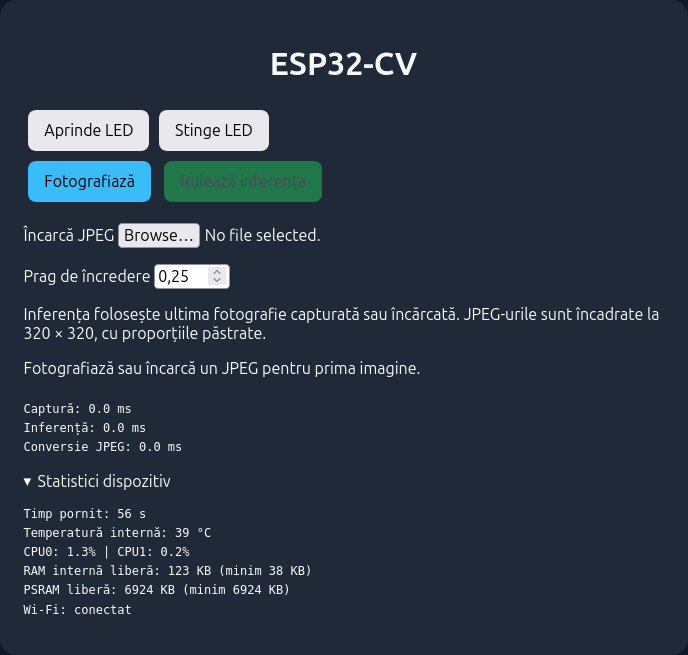
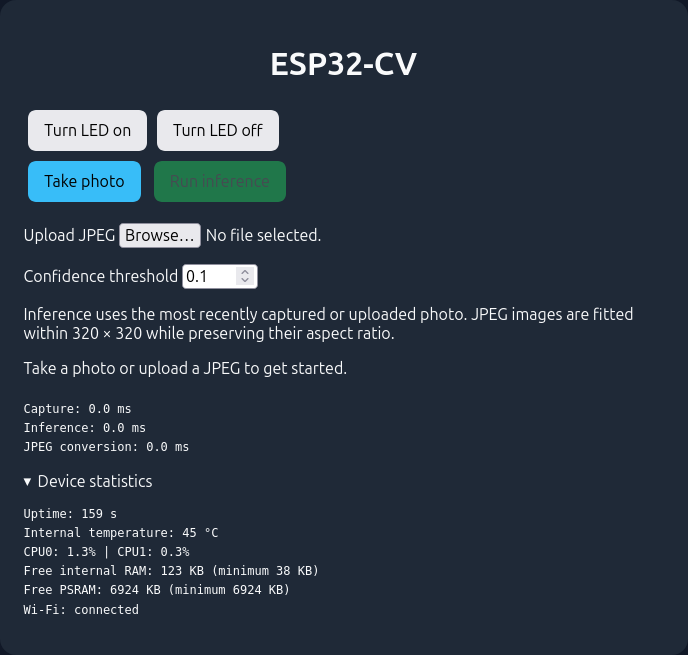
change index.html to en

diff --git a/src/index.html b/src/index.html
@@ -1,5 +1,5 @@
 <!doctype html>
-<html lang="ro">
+<html lang="en">
 <head>
 <meta charset="utf-8"><meta name="viewport" content="width=device-width,initial-scale=1">
 <title>ESP32-CV</title>
@@ -14,18 +14,18 @@ table{width:100%;border-collapse:collapse}td,th{text-align:left;padding:.4rem;bo
 </style>
 </head>
 <body><main><h1>ESP32-CV</h1>
-<div><button onclick="setLed(true)">Aprinde LED</button><button onclick="setLed(false)">Stinge LED</button></div>
-<div><button id="capture" onclick="submitJob(false)">Fotografiază</button>
-<button id="infer" onclick="submitJob(true)" disabled>Rulează inferența</button></div>
-<p><label>Încarcă JPEG <input id="upload" type="file" accept="image/jpeg,.jpg,.jpeg" onchange="uploadImage()"></label></p>
-<label>Prag de încredere <input id="threshold" type="number" min="0.01" max="1" step="0.01" value="0.25"></label>
-<p>Inferența folosește ultima fotografie capturată sau încărcată. JPEG-urile sunt încadrate la 320 × 320, cu proporțiile păstrate.</p>
-<p id="message" role="status" aria-live="polite">Se citește starea...</p>
-<img id="camera" hidden alt="Ultima imagine capturată">
+<div><button onclick="setLed(true)">Turn LED on</button><button onclick="setLed(false)">Turn LED off</button></div>
+<div><button id="capture" onclick="submitJob(false)">Take photo</button>
+<button id="infer" onclick="submitJob(true)" disabled>Run inference</button></div>
+<p><label>Upload JPEG <input id="upload" type="file" accept="image/jpeg,.jpg,.jpeg" onchange="uploadImage()"></label></p>
+<label>Confidence threshold <input id="threshold" type="number" min="0.01" max="1" step="0.01" value="0.25"></label>
+<p>Inference uses the most recently captured or uploaded photo. JPEG images are fitted within 320 × 320 while preserving their aspect ratio.</p>
+<p id="message" role="status" aria-live="polite">Reading status...</p>
+<img id="camera" hidden alt="Most recent captured image">
 <pre id="timings"></pre>
-<table id="objects" hidden><thead><tr><th>Obiect</th><th>Scor</th><th>Coordonate</th></tr></thead><tbody></tbody></table>
+<table id="objects" hidden><thead><tr><th>Object</th><th>Score</th><th>Coordinates</th></tr></thead><tbody></tbody></table>
 <p id="count"></p>
-<details><summary>Statistici dispozitiv</summary><pre id="stats"></pre></details>
+<details><summary>Device statistics</summary><pre id="stats"></pre></details>
 </main><script>
 let imageId=-1, submitting=false, lastState=null;
 const byId=id=>document.getElementById(id);
@@ -36,7 +36,7 @@ async function setLed(on){try{await checked('/led/'+(on?'on':'off'),{method:'POS
 async function submitJob(infer){
  if(submitting||(lastState&&lastState.processing.busy))return;
  const threshold=byId('threshold');if(infer&&!threshold.reportValidity())return;
- submitting=true;buttons();message(infer?'Se rulează inferența...':'Se capturează fotografia...');
+ submitting=true;buttons();message(infer?'Running inference...':'Capturing photo...');
  try{await checked(infer?'/api/infer?threshold='+encodeURIComponent(threshold.value):'/api/capture',{method:'POST'});if(lastState){lastState.processing.busy=true;lastState.processing.operation=infer?'inference':'capture';}}
  catch(e){message(e.message,true);}
  finally{submitting=false;buttons();}
@@ -44,11 +44,11 @@ async function submitJob(infer){
 async function uploadImage(){
  const input=byId('upload'),file=input.files[0];
  if(!file||submitting||!lastState||lastState.processing.busy)return;
- submitting=true;buttons();message('Se pregătește și se încarcă imaginea...');
+ submitting=true;buttons();message('Preparing and uploading image...');
  const url=URL.createObjectURL(file);
  try{
   const signature=new Uint8Array(await file.slice(0,2).arrayBuffer());
-  if(signature[0]!==0xff||signature[1]!==0xd8)throw new Error('Selectează o imagine JPEG validă.');
+  if(signature[0]!==0xff||signature[1]!==0xd8)throw new Error('Select a valid JPEG image.');
   const image=new Image();image.src=url;await image.decode();
   const canvas=document.createElement('canvas');
   canvas.width=lastState.image_width;canvas.height=lastState.image_height;
@@ -71,25 +71,25 @@ async function uploadImage(){
 function render(s){
  lastState=s;const p=s.processing;buttons();
  if(submitting)return;
- if(p.busy)message(p.operation==='upload'?'Se încarcă imaginea...':p.operation==='inference'?'Se rulează inferența...':'Se capturează fotografia...');
+ if(p.busy)message(p.operation==='upload'?'Uploading image...':p.operation==='inference'?'Running inference...':'Capturing photo...');
  else if(p.error)message(p.error,true);
- else message(p.has_frame?(p.inferred?'Inferența este gata.':'Fotografia este gata. Poți rula inferența.'):'Fotografiază sau încarcă un JPEG pentru prima imagine.');
+ else message(p.has_frame?(p.inferred?'Inference complete.':'Photo ready. You can run inference.'):'Take a photo or upload a JPEG to get started.');
  if(p.image_id!==imageId&&p.has_frame){imageId=p.image_id;byId('camera').src='/image?t='+imageId;byId('camera').hidden=false;}
- byId('timings').textContent=`Captură: ${p.capture_ms.toFixed(1)} ms
-Inferență: ${p.inference_ms.toFixed(1)} ms
-Conversie JPEG: ${p.jpeg_ms.toFixed(1)} ms`;
+ byId('timings').textContent=`Capture: ${p.capture_ms.toFixed(1)} ms
+Inference: ${p.inference_ms.toFixed(1)} ms
+JPEG conversion: ${p.jpeg_ms.toFixed(1)} ms`;
  const tbody=byId('objects').querySelector('tbody');tbody.replaceChildren();
  for(const d of p.objects){const tr=document.createElement('tr');for(const value of [d.name,(d.score*100).toFixed(1)+'%',d.box.join(', ')]){const td=document.createElement('td');td.textContent=value;tr.appendChild(td);}tbody.appendChild(tr);}
  byId('objects').hidden=!p.inferred;
- byId('count').textContent=p.inferred?`${p.total_objects} obiecte detectate`+(p.total_objects>p.objects.length?` (afișate primele ${p.objects.length})`:''):'';
- byId('stats').textContent=`Timp pornit: ${s.uptime_sec} s
-Temperatură internă: ${s.temperature_c===null?'indisponibilă':s.temperature_c+' °C'}
+ byId('count').textContent=p.inferred?`${p.total_objects} objects detected`+(p.total_objects>p.objects.length?` (showing the first ${p.objects.length})`:''):'';
+ byId('stats').textContent=`Uptime: ${s.uptime_sec} s
+Internal temperature: ${s.temperature_c===null?'unavailable':s.temperature_c+' °C'}
 CPU0: ${s.cpu0_usage_pct.toFixed(1)}% | CPU1: ${s.cpu1_usage_pct.toFixed(1)}%
-RAM internă liberă: ${s.internal_ram_free_kb} KB (minim ${s.internal_ram_min_kb} KB)
-PSRAM liberă: ${s.psram_free_kb} KB (minim ${s.psram_min_kb} KB)
-Wi-Fi: ${s.wifi_connected ? 'conectat' : 'deconectat'}`;
+Free internal RAM: ${s.internal_ram_free_kb} KB (minimum ${s.internal_ram_min_kb} KB)
+Free PSRAM: ${s.psram_free_kb} KB (minimum ${s.psram_min_kb} KB)
+Wi-Fi: ${s.wifi_connected ? 'connected' : 'disconnected'}`;
 }
-byId('camera').onerror=()=>{imageId=-1;message('Imaginea nu a putut fi încărcată. Se reîncearcă.',true);};
-async function poll(){try{render(await(await checked('/api/status',{cache:'no-store'})).json());}catch(e){lastState=null;buttons();message('Dispozitivul nu răspunde: '+e.message,true);}finally{setTimeout(poll,1000);}}
+byId('camera').onerror=()=>{imageId=-1;message('Could not load the image. Retrying.',true);};
+async function poll(){try{render(await(await checked('/api/status',{cache:'no-store'})).json());}catch(e){lastState=null;buttons();message('Device is not responding: '+e.message,true);}finally{setTimeout(poll,1000);}}
 poll();
 </script></body></html>
